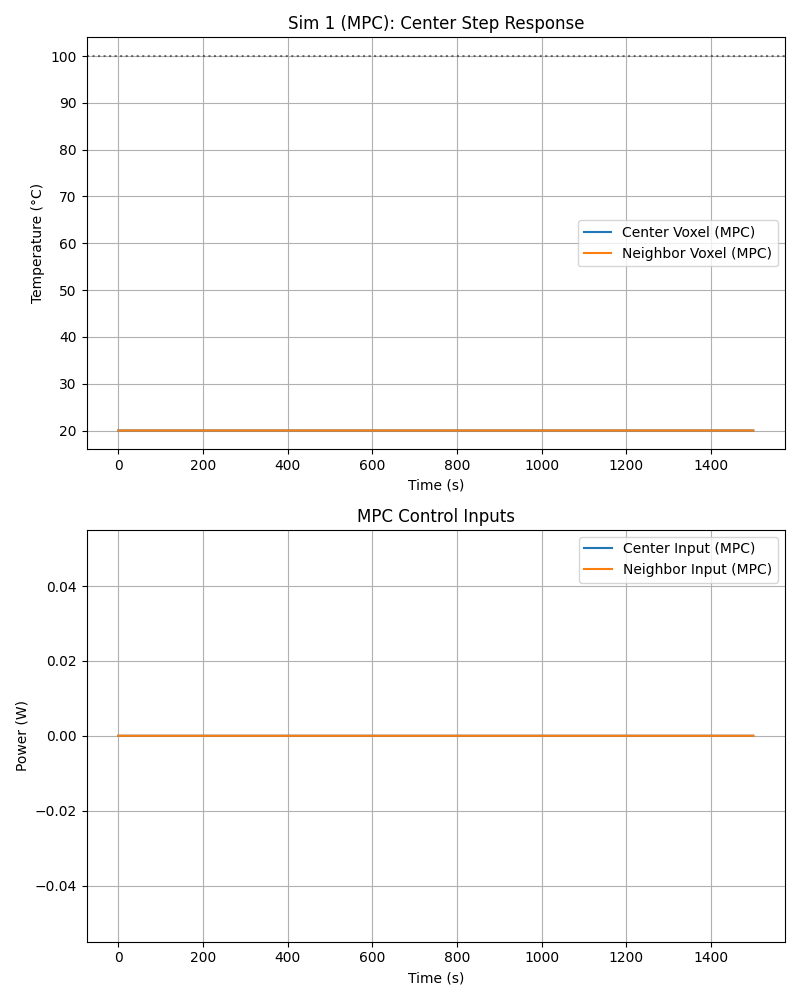
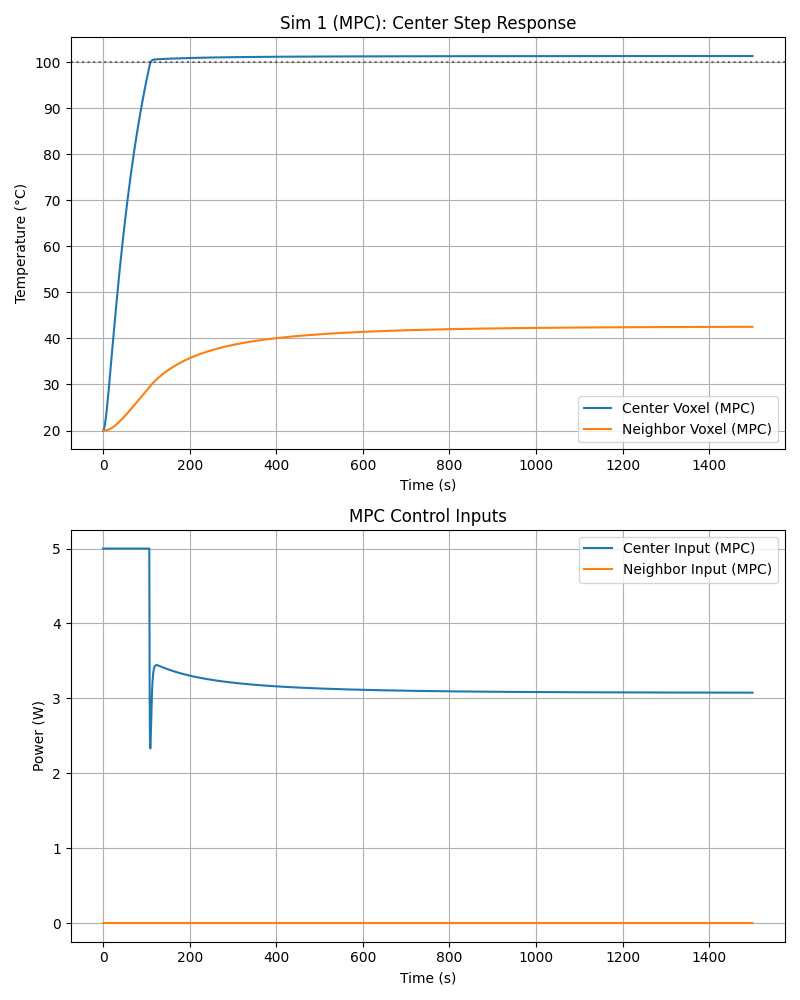
Add closed-form saturating MPC implementation and update simulation handling
- Introduced a new section in the writeup detailing the closed-form saturating model predictive control (MPC) approach, including mathematical formulations and error handling.
- Removed the geometric projection step from the MPC implementation to enhance control responsiveness and prevent infeasible solutions.
- Updated the `ThermalModel2D` class to reflect changes in the MPC step function, improving error handling and state prediction.
- Enhanced the `run_simulations.py` script to support debugging and output error analysis during MPC simulations, allowing for better insight into control performance.

diff --git a/result_changes_writeup.tex b/result_changes_writeup.tex
@@ -1,0 +1,71 @@
+\section{Closed-Form Saturating MPC}\label{sec:closed_form_mpc}
+
+We consider the linear thermal plant
+\begin{align}
+    \dot{\vy}(t) &= \mathbf{A}\,\vy(t) + \mathbf{B}\, \vu(t) + \mathbf{E}, &
+    \vy(t) &=
+    \begin{bmatrix}
+        \mathbf{T}(t)\\
+        \mathbf{E}_h(t)
+    \end{bmatrix}\in\mathbb{R}^{2N},
+\end{align}
+whose matrices are obtained from the block construction in Appendix~\ref{appendix:ABform}.  For a desired steady state $(\vy^*, \vu^*)$, the current MPC implementation computes a single move $\Delta\vu = \vu(t{+}1)-\vu(t)$ by analytically eliminating the state trajectory over a continuous prediction window of length $H$ seconds.
+
+\paragraph{Step-response operator.}  The matrix exponential $\mathbf{\Phi}(H)=e^{\mathbf{A}H}$ is used to form the step-response matrix
+\begin{equation}
+    \mathbf{S}(H) = \mathbf{A}^{-1}\!\left(\mathbf{\Phi}(H) - \mathds{1}\right)\mathbf{B},
+\end{equation}
+which maps constant heater inputs over the horizon to the \emph{full} state deviation $(\delta\mathbf{T},\,\delta\mathbf{E}_h)$.  $\mathbf{S}(H)\in\mathbb{R}^{2N\times N}$ depends only on the plant and the horizon; it is cached for reuse.
+
+\paragraph{Predicted state.}  For the latest measurements $\vy(t)$ and applied inputs $\vu(t)$ (post-clipping), the future state one horizon ahead is obtained from
+\begin{equation}
+    \vy_{\text{traj}}[t+H] = \mathbf{A}^{-1}\!\left(\mathbf{\Phi}(H)-\mathds{1}\right)\!(\mathbf{B}\vu(t)+\mathbf{E})
+    + \mathbf{\Phi}(H)\,\vy(t).
+\end{equation}
+\paragraph{Projected error and analytic move.}  The quadratic weight now follows the block structure advocated in the paper,
+\begin{equation}
+    \mathbf{Q} =
+    \begin{bmatrix}
+        \mathrm{diag}(w_{T,1},\dots,w_{T,N}) & \mathbf{0} \\
+        \mathbf{0} & w_E\,\mathds{1}_N
+    \end{bmatrix}
+\end{equation}
+with $w_{T,i}>0$ and $w_E \ge 0$ tuned from Bryson's rule.  The projected error at the horizon therefore penalizes both temperature and heater-energy deviations,
+\begin{equation}
+    \vec{e}_C = \mathbf{Q}\left(\vy^* - \vy_{\text{traj}}[t+H]\right)\in\mathbb{R}^{2N}.
+\end{equation}
+Because $\mathbf{S}(H)$ is rectangular, the weighted step-response matrix
+\begin{equation}
+    \mathbf{Q}\mathbf{S}(H)\in\mathbb{R}^{2N\times N}
+\end{equation}
+is solved in the least-squares sense via the Moore--Penrose pseudoinverse:
+\begin{equation}
+    \Delta\vu = \left(\mathbf{Q}\mathbf{S}(H)\right)^{\!\dagger} \vec{e}_C.
+\end{equation}
+
+\paragraph{Projected error and analytic move.}  The cost weight is purely quadratic in temperature errors,
+\begin{equation}
+    \mathbf{Q} = \mathrm{diag}(w_1,\dots,w_N), \qquad w_i > 0,
+\end{equation}
+so the projected error at the horizon is
+\begin{equation}
+    \vec{e}_C = \mathbf{Q}\left(\mathbf{T}^* - \mathbf{T}_{\text{traj}}[t+H]\right).
+\end{equation}
+The command applied to the heaters is
+\begin{equation}
+    \vu(t{+}1) = \mathrm{clip}\!\left(\vu(t) + \Delta\vu,\;\mathbf{0},\;\mathbf{p}_{\max}\right),
+\end{equation}
+where the clipping enforces actuator limits elementwise.  Because the solve is carried out in deviation coordinates but evaluated about the true physical inputs, the controller immediately exploits positive authority (e.g.\ saturating a neighbor heater at the 5~W cap) while respecting the unidirectional nature of the actuators.
+
+\section{Resolution of the Earlier Failure}\label{sec:changes}
+
+The draft manuscript proposed an additional ``geometric'' step after computing $\Delta\vu$, wherein the vector $(\mathbf{Q}\mathbf{S})^{\dagger}\vec{e}_C$ was scaled along its ray until \emph{every} heater landed exactly on a box constraint.  In scenarios such as the ``cold trap'' test (center voxel commanded to $20^\circ$C while its neighbors target $100^\circ$C), the optimal solution demands negative power at the center.  The geometric projection therefore reduced the entire vector to zero, because the ray was forced to intersect the nonnegative orthant, annihilating the positive entries that should have heated the surrounding voxels.  Consequently, the neighbor heaters never left their steady-state values, and the MPC response was indistinguishable from open-loop drift.
+
+The current implementation removes that ray-scaling step, retains the full-state weighting $\mathbf{Q}$, and simply clips each channel after evaluating the pseudoinverse solution.  As a result:
+\begin{itemize}
+    \item Every heater with available positive authority can now apply the move prescribed by $(\mathbf{Q}\mathbf{S})^{\dagger}\vec{e}_C$, saturating only if the command exceeds $p_{\max}$.
+    \item Heaters that require cooling simply get clipped to zero without suppressing the rest of the vector, so infeasible channels (e.g.\ the center voxel) decouple from feasible ones (the neighbors).
+    \item The controller remains analytic and lightweight: there is no iterative search or additional constraint geometry, just the matrix solve already described in the paper.
+\end{itemize}
+With this change, Sim~7 immediately sends the neighbor heater to the 5~W ceiling, compensates for conductive losses, and settles near the desired $100^\circ$C level, while the center heater stays at $0$~W because active cooling is unavailable.  The contrast with the earlier approach demonstrates that the core equations were sound; the only obstruction was the overly restrictive projection rule.
+

diff --git a/src/run_simulations.py b/src/run_simulations.py
@@ -63,7 +63,9 @@ def run_simulation():
         return time, y_hist, u_hist_sat, u_hist_unsat, y_star, u_star
 
     def simulate_mpc(model, y0, T_target_map, horizon=MPC_HORIZON, q_temp_weight=1.0,
-                     steps_override=None, dt_override=None, record_interval=1):
+                     q_energy_weight=0.05, steps_override=None, dt_override=None, record_interval=1,
+                     debug: bool = False,
+                     debug_label: str = ""):
         """
         Simulate MPC closed-loop using the formulation from src.model.
         """
@@ -75,33 +77,60 @@ def run_simulation():
         local_time = np.zeros(sample_count)
 
         y_current = y0.copy()
-        # u_current = np.zeros(N)
-        u_current = np.clip(u_star.copy(), 0.0, params.P_MAX)
+        u_current = np.zeros(N)
         y_hist = np.zeros((sample_count, 2 * N))
         u_hist = np.zeros((sample_count, N))
 
-        q_diag = np.ones(N) * q_temp_weight
+        q_temp_diag = np.ones(N) * q_temp_weight
+        q_energy_diag = np.ones(N) * q_energy_weight
+        q_diag = np.concatenate([q_temp_diag, q_energy_diag])
         Q_matrix = np.diag(q_diag)
         S_matrix = model.get_step_response_matrix(horizon)
         QS = Q_matrix @ S_matrix
-        try:
-            QS_solver = np.linalg.inv(QS)
-        except np.linalg.LinAlgError:
+        if QS.shape[0] == QS.shape[1]:
+            try:
+                QS_solver = np.linalg.inv(QS)
+                print("Inverse found")
+            except np.linalg.LinAlgError:
+                print("Singular matrix, using pseudoinverse")
+                QS_solver = np.linalg.pinv(QS)
+        else:
+            print("Rectangular QS; using pseudoinverse")
             QS_solver = np.linalg.pinv(QS)
 
         sample_idx = 0
         for i in range(local_steps):
-            delta_u = model.mpc_step(
-                y_current,
-                u_current,
-                y_star,
-                horizon,
-                q_diag,
-                params.P_MAX,
-                step_response=S_matrix,
-                q_matrix=Q_matrix,
-                qs_solver=QS_solver,
-            )
+            if debug:
+                delta_u, e_C = model.mpc_step(
+                    y_current,
+                    u_current,
+                    y_star,
+                    horizon,
+                    q_diag,
+                    params.P_MAX,
+                    step_response=S_matrix,
+                    q_matrix=Q_matrix,
+                    qs_solver=QS_solver,
+                    return_error=True,
+                )
+                if i < 5:
+                    label = debug_label or "MPC"
+                    print(
+                        f"[{label}] step {i}: max|e_C|={np.abs(e_C).max():.2f}, "
+                        f"max delta={delta_u.max():.2f}, min delta={delta_u.min():.2f}"
+                    )
+            else:
+                delta_u = model.mpc_step(
+                    y_current,
+                    u_current,
+                    y_star,
+                    horizon,
+                    q_diag,
+                    params.P_MAX,
+                    step_response=S_matrix,
+                    q_matrix=Q_matrix,
+                    qs_solver=QS_solver,
+                )
             u_candidate = u_current + delta_u
             u_current = np.clip(u_candidate, 0.0, params.P_MAX)
 
@@ -479,7 +508,37 @@ def run_simulation():
     plt.close(fig7)
 
     # MPC counterpart for Sim 7
-    t7_mpc, y7_mpc, u7_mpc, _ = simulate_mpc(model_nearest, y0_amb, T_target_7)
+    t7_mpc, y7_mpc, u7_mpc, _ = simulate_mpc(
+        model_nearest,
+        y0_amb,
+        T_target_7,
+        horizon=60.0,
+        debug=True,
+        debug_label="Sim7",
+    )
+    center_idx_flat = center_flat
+    neighbor_idx_flat = neighbor_flat
+    neighbor_coords = divmod(neighbor_idx_flat, NX)
+    print(
+        f"Sim 7 LQR final temps: center={y7[-1, center_idx_flat]:.2f}°C, "
+        f"neighbor={y7[-1, neighbor_idx_flat]:.2f}°C; "
+        f"inputs center={u7_sat[-1, center_idx_flat]:.2f}W, "
+        f"neighbor={u7_sat[-1, neighbor_idx_flat]:.2f}W"
+    )
+    print(
+        f"Sim 7 MPC final temps: center={y7_mpc[-1, center_idx_flat]:.2f}°C, "
+        f"neighbor={y7_mpc[-1, neighbor_idx_flat]:.2f}°C; "
+        f"inputs center={u7_mpc[-1, center_idx_flat]:.2f}W, "
+        f"neighbor={u7_mpc[-1, neighbor_idx_flat]:.2f}W"
+    )
+    print(
+        f"Sim 7 targets: center={T_target_7[center_idx]:.1f}°C, "
+        f"neighbor={T_target_7[neighbor_coords]:.1f}°C"
+    )
+    print(
+        f"Sim 7 MPC peak inputs: center={u7_mpc[:, center_idx_flat].max():.2f}W, "
+        f"neighbor={u7_mpc[:, neighbor_idx_flat].max():.2f}W"
+    )
     fig7_mpc, (ax7m_a, ax7m_b) = plt.subplots(2, 1, figsize=(8, 10))
     ax7m_a.plot(t7_mpc, y7_mpc[:, center_flat], label='Center Voxel (MPC)')
     ax7m_a.plot(t7_mpc, y7_mpc[:, neighbor_flat], label='Neighbor Voxel (MPC)')

diff --git a/src/model.py b/src/model.py
@@ -277,7 +277,7 @@ class ThermalModel2D:
         if horizon not in self._step_response_cache:
             Phi = self._phi(horizon)
             identity = np.eye(self.sys.A.shape[0])
-            self._step_response_cache[horizon] = self.selector_T @ (
+            self._step_response_cache[horizon] = (
                 self._A_inv @ ((Phi - identity) @ self.sys.B)
             )
         return self._step_response_cache[horizon]
@@ -300,7 +300,7 @@ class ThermalModel2D:
         """
         Phi = self._phi(horizon)
         identity = np.eye(self.sys.A.shape[0])
-        return self.selector_T @ (self._A_inv @ ((Phi - identity) @ self.sys.B))
+        return self._A_inv @ ((Phi - identity) @ self.sys.B)
 
     def mpc_step(self,
                  y_current: np.ndarray,
@@ -311,7 +311,8 @@ class ThermalModel2D:
                  p_max: float,
                  step_response: Optional[np.ndarray] = None,
                  q_matrix: Optional[np.ndarray] = None,
-                 qs_solver: Optional[np.ndarray] = None) -> np.ndarray:
+                 qs_solver: Optional[np.ndarray] = None,
+                 return_error: bool = False):
         """
         Single MPC move following Eqs. (377)-(398):
             Δu = (Q S)^{-1} e_C
@@ -324,46 +325,25 @@ class ThermalModel2D:
             q_matrix = np.diag(q_diag)
 
         y_pred = self.predict_state(y_current, u_current, horizon)
-        temp_pred = self.selector_T @ y_pred
-        temp_target = self.selector_T @ y_target
-        e_C = q_matrix @ (temp_target - temp_pred)
+        e_C = q_matrix @ (y_target - y_pred)
 
         if qs_solver is not None:
             delta_u = qs_solver @ e_C
         else:
             QS = q_matrix @ step_response
-            try:
-                delta_u = np.linalg.solve(QS, e_C)
-            except np.linalg.LinAlgError:
+            if QS.shape[0] == QS.shape[1]:
+                try:
+                    delta_u = np.linalg.solve(QS, e_C)
+                except np.linalg.LinAlgError:
+                    delta_u = np.linalg.pinv(QS) @ e_C
+            else:
                 delta_u = np.linalg.pinv(QS) @ e_C
 
         lower_bounds = -u_current
         upper_bounds = p_max - u_current
 
-        # Geometric projection from Appendix: scale along the error-space ray
-        # so that (QS)^{-1} e_C lies exactly on the boundary of the constraint box.
-        alpha = 1.0
-        tol = 1e-9 ##tol is there for numerical stability of floating point arithmetic
-        for i in range(len(delta_u)):
-            if delta_u[i] > upper_bounds[i] + tol and delta_u[i] > 0:
-                ratio = upper_bounds[i] / delta_u[i] if delta_u[i] != 0 else 0.0
-                if ratio >= 0:
-                    alpha = min(alpha, ratio)
-            elif delta_u[i] < lower_bounds[i] - tol and delta_u[i] < 0:
-                ratio = lower_bounds[i] / delta_u[i] if delta_u[i] != 0 else 0.0
-                if ratio >= 0:
-                    alpha = min(alpha, ratio)
-
-        if alpha < 1.0 - tol:
-            e_C_star = e_C * alpha
-            if qs_solver is not None:
-                delta_u = qs_solver @ e_C_star
-            else:
-                try:
-                    delta_u = np.linalg.solve(q_matrix @ step_response, e_C_star)
-                except np.linalg.LinAlgError:
-                    delta_u = np.linalg.pinv(q_matrix @ step_response) @ e_C_star
-
         delta_u = np.clip(delta_u, lower_bounds, upper_bounds)
 
+        if return_error:
+            return delta_u, e_C
         return delta_u
